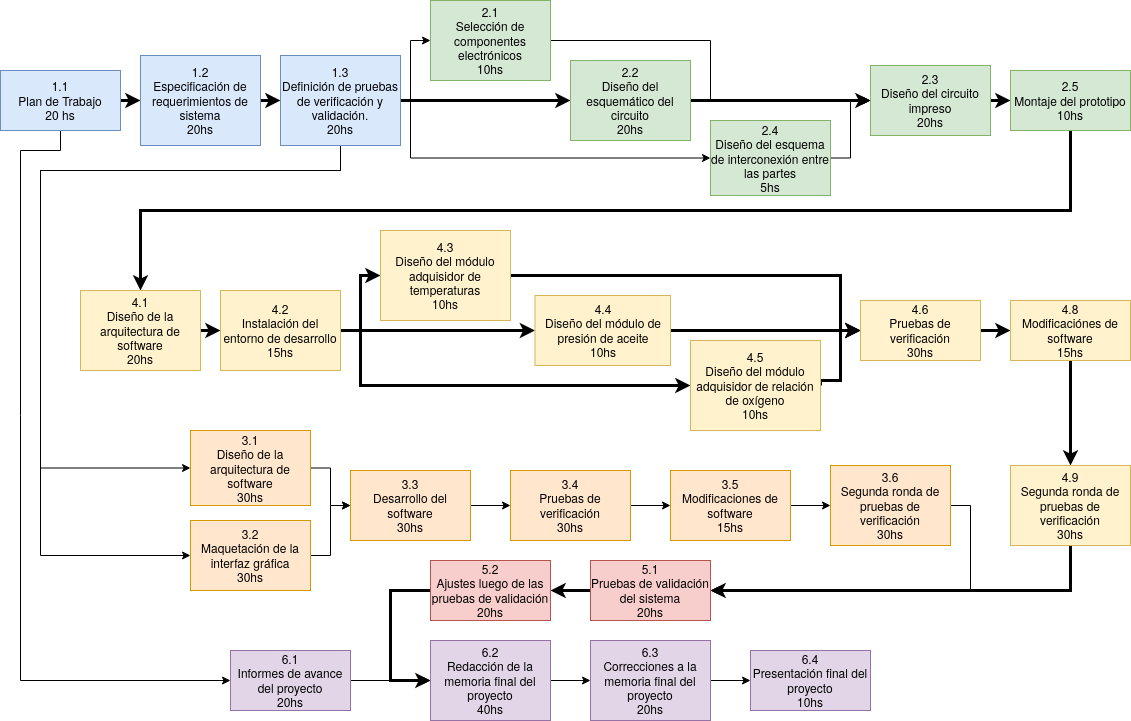
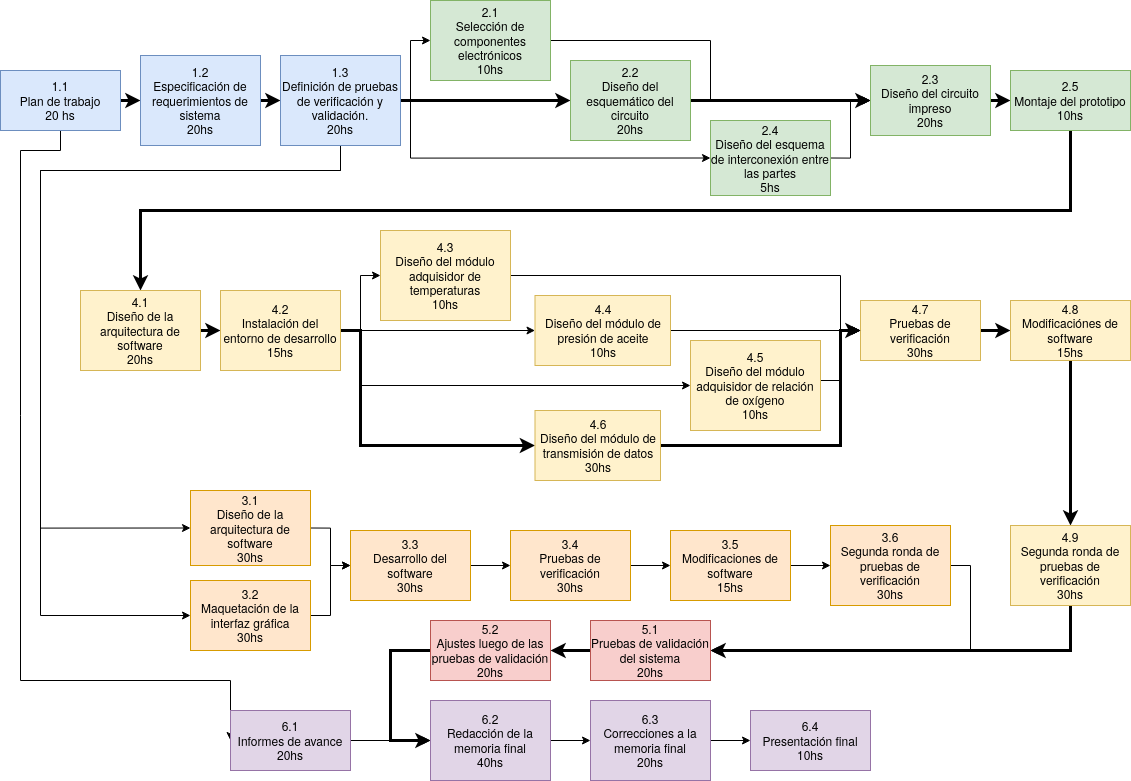
se realizo la matriz de responsabilidades y hubo correciones en el diagrama aon

Changed region(s): [[0.0, 0.0305, 1.0, 1.0], [0.6499, 0.8849, 0.7737, 1.0], [0.1857, 0.8849, 0.3095, 1.0]]

diff --git a/charter.tex b/charter.tex
@@ -322,7 +322,7 @@ Cantidad total de horas: (600 hs)
 \section{7. Diagrama de Activity On Node}
 \label{sec:AoN}
 
-En la figura \ref{fig:AoN} se detalla el desglose de tareas del proyecto como un diagrama "Activity on node", cada bloque representa una tarea y su color de fondo indica a que fase general del proyecto pertenece, la figura \ref{fig:leyenda-aon} describe este código de colores utilizado. El tiempo de las tareas está expresado en horas, se identifica un único camino crítico de duración de 340hs, el camino está sobresaltado con flechas de mayor grosor.
+En la figura \ref{fig:AoN} se detalla el desglose de tareas del proyecto como un diagrama "Activity on node", cada bloque representa una tarea y su color de fondo indica a que fase general del proyecto pertenece, la figura \ref{fig:leyenda-aon} describe este código de colores utilizado. El tiempo de las tareas está expresado en horas, se identifica un único camino crítico de duración de 360hs, el camino está sobresaltado con flechas de mayor grosor.
 
 \begin{figure}[htpb]
 \centering 
@@ -512,24 +512,49 @@ Establecer la matriz de asignación de responsabilidades y el manejo de la autor
 \rowcolor[HTML]{C0C0C0} 
 \cellcolor[HTML]{C0C0C0} &
   \cellcolor[HTML]{C0C0C0} &
-  \multicolumn{4}{c|}{\cellcolor[HTML]{C0C0C0}Listar todos los nombres y roles del proyecto} \\ \cline{3-6} 
+  \multicolumn{3}{c|}{\cellcolor[HTML]{C0C0C0}Listar todos los nombres y roles del proyecto} \\ \cline{3-6} 
 \rowcolor[HTML]{C0C0C0} 
 \cellcolor[HTML]{C0C0C0} &
   \cellcolor[HTML]{C0C0C0} &
   Responsable &
   Orientador &
-  Equipo &
-  Cliente \\ \cline{3-6} 
+  Cliente &\\ \cline{3-6} 
 \rowcolor[HTML]{C0C0C0} 
 \multirow{-3}{*}{\cellcolor[HTML]{C0C0C0}\begin{tabular}[c]{@{}c@{}}Código\\ WBS\end{tabular}} &
   \multirow{-3}{*}{\cellcolor[HTML]{C0C0C0}Nombre de la tarea} &
   \authorname &
   \supname &
-  Nombre de alguien &
-  \clientename \\ \hline
- &  &  &  &  &  \\ \hline
- &  &  &  &  &  \\ \hline
- &  &  &  &  &  \\ \hline
+  \clientename\\ \hline
+ %Responsable Orientador Equipo Cliente
+ 1.1 & Plan de trabajo											 & P  & C   & A  \\ \hline
+ 1.2 & Especificación de requisitos del sistema				 & P  & C   & A  \\ \hline
+ 1.3 & Definición de pruebas de verificación y validación		 & P  & C   & A  \\ \hline
+ 2.1 & Selección de componentes electrónicos					 & P  & C/A &  \\ \hline
+ 2.2 & Diseño del esquemático del circuito						 & P  & C/A &  \\ \hline
+ 2.3 & Diseño del circuito impreso								 & P  & C/A &  \\ \hline
+ 2.4 & Diseño del esquema de interconexión entre las partes	 & P  & C/A &  \\ \hline
+ 2.5 & Montaje del prototipo									 & P  & C/A &  \\ \hline
+ 3.1 & Diseño de la arquitectura de software					 & P  & C/A &  \\ \hline
+ 3.2 & Maquetación de la interfaz gráfica   					 & P  & C   & A  \\ \hline
+ 3.3 & Desarrollo de software									 & P  & C/A &  \\ \hline
+ 3.4 & Pruebas de verificación									 & P  & C/A & I  \\ \hline
+ 3.5 & Modificaciones de software								 & P  & C/A &  \\ \hline
+ 3.6 & Segunda ronda de pruebas de verificación				 & P  & C/A & I  \\ \hline
+ 4.1 & Diseño de la arquitectura de software					 & P  & C/A &  \\ \hline
+ 4.2 & Instalación del entorno de desarrollo					 & P  & C/A &  \\ \hline
+ 4.3 & Diseño del módulo adquisidor de temperaturas			 & P  & C/A &  \\ \hline
+ 4.4 & Diseño del módulo de presión de aceite					 & P  & C/A &  \\ \hline
+ 4.5 & Diseño del módulo adquisidor de relación de oxígeno		 & P  & C/A &  \\ \hline
+ 4.6 & Diseño del módulo de comunicación						 & P  & C/A &  \\ \hline
+ 4.7 & Pruebas de verificación									 & P  & C/A & I  \\ \hline
+ 4.8 & Modificaciones de software								 & P  & C/A &  \\ \hline
+ 4.9 & Segunda ronda de pruebas de verificación				 & P  & C/A & I  \\ \hline
+ 5.1 & Pruebas de validación del sistema			             & P  & C & A \\ \hline
+ 5.2 & Ajustes luego de las pruebas de validación				 & P  & C & A \\ \hline
+ 6.1 & Informes de avance  										 & P  & A & I  \\ \hline
+ 6.2 & Redacción de la memoria final				 			 & P  & A & I \\ \hline
+ 6.3 & Correcciones a la memoria final 							 & P  & A & I  \\ \hline
+ 6.4 & Presentación final  										 & P  & A & I  \\ \hline
 \end{tabular}%
 }
 \end{table}
